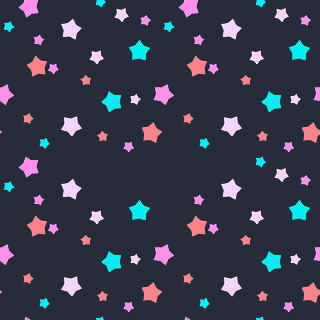
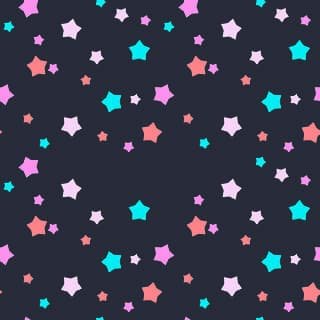
chore: 🔨 Compress image assets

diff --git a/src/style.css b/src/style.css
@@ -18,7 +18,7 @@ body {
 
 body {
   font-family: Lato, sans-serif;
-  background: url('./assets/picture.jpg') no-repeat fixed;
+  background: url('./assets/background.jpg') no-repeat fixed;
   background-size: cover;
 }
 
